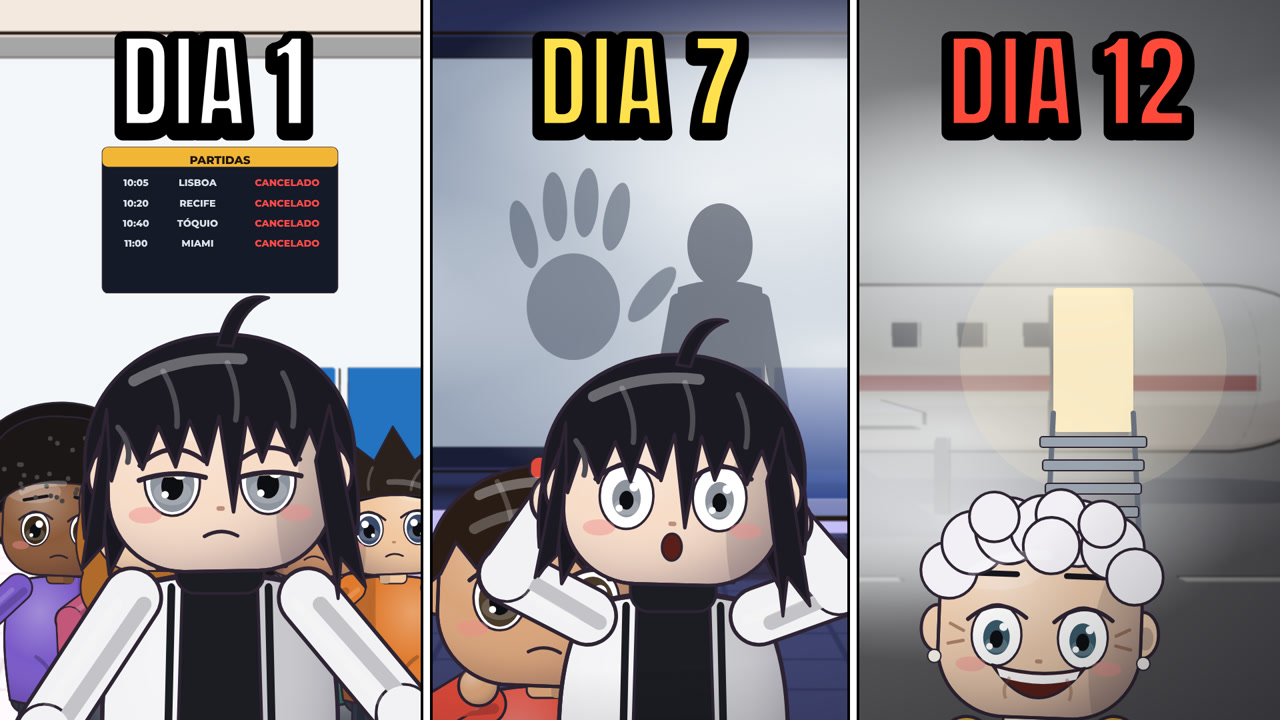
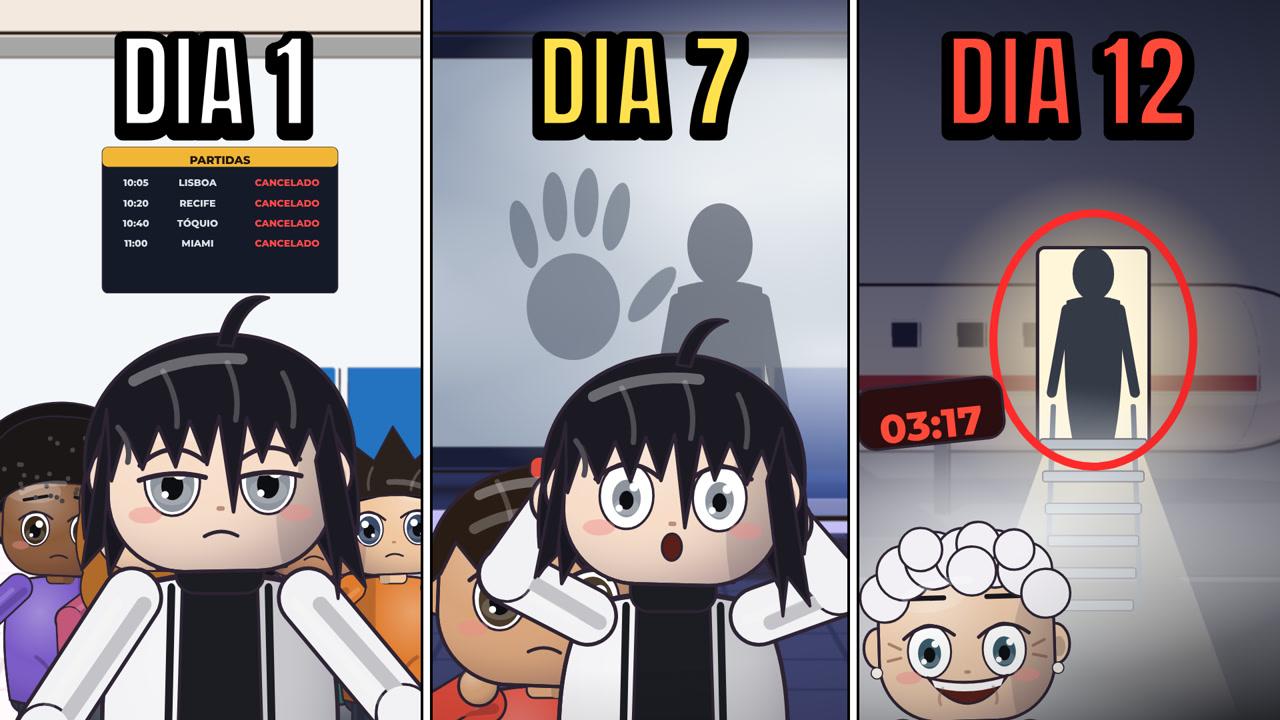
Aeroporto Parte 1: DIA 12 da capa melhorado (silhueta na porta, feixe de luz, 03:17)
Claude-Session: https://claude.ai/code/session_01LhtxzVH3qqLdbNSUbkPF4y

Changed region(s): [[0.6562, 0.0, 1.0, 1.0]]

diff --git a/longos/capas_v3/d4.js b/longos/capas_v3/d4.js
@@ -7,9 +7,18 @@ g += panel(0, 640, 'portao', p1, 'blur(1px) saturate(1.25)', 0);
 // DIA 7 — escuro, silhueta na névoa, mão no vidro
 let p2 = fog(2, 0.8, 120, 520, 5) + shadowFig(1080, 760, 0.7, 0.55) + handPrint(860, 420, 1.0, 0.95) + person(Object.assign({}, LIA, { x: 820, y: 1500, s: 1.25, expr: 'worried', hl: [-100, -250] })) + person(neoAt(25, { x: 1010, y: 1880, s: 1.75, expr: 'surprised', hl: [-110, -270], hr: [110, -270] })) + vig(0.6);
 g += panel(640, 640, 'portaoEscuro', p2, 'blur(1px) saturate(1.1)', 0);
-// DIA 12 — o avião abre a porta; a Dona Cida sorri
-let p3 = fog(3, 0.7, 300, 600, 7) + G('translate(1640,540)', R(-60, -108, 120, 216, 6, 'rgba(255,240,200,0.95)', 0) + C(0, 0, 200, 'rgba(255,240,200,0.18)', 0)) + stairs(1640, 830, 1, 210) + person(Object.assign({}, CIDA, { x: 1560, y: 1720, s: 1.5, expr: 'creepy' })) + vig(0.65);
-g += panel(1280, 640, 'pista', p3, 'blur(1.5px) brightness(0.55) saturate(0.7)', -572);
+// DIA 12 — 03:17: o avião abre a porta, alguém na porta; a Dona Cida sorri
+const ND = '<defs><linearGradient id="night" x1="0" y1="0" x2="0" y2="1"><stop offset="0" stop-color="#0B1030" stop-opacity="0.75"/><stop offset="0.6" stop-color="#1A1440" stop-opacity="0.35"/><stop offset="1" stop-color="#05060A" stop-opacity="0.6"/></linearGradient><linearGradient id="beam" x1="0" y1="0" x2="0" y2="1"><stop offset="0" stop-color="#FFF0C0" stop-opacity="0.75"/><stop offset="1" stop-color="#FFF0C0" stop-opacity="0"/></linearGradient><radialGradient id="dglow"><stop offset="0" stop-color="#FFF4D0" stop-opacity="0.9"/><stop offset="1" stop-color="#FFE0A0" stop-opacity="0"/></radialGradient></defs>';
+let p3 = ND + R(1270, -10, 660, 1100, 0, 'url(#night)', 0);
+p3 += P('M1580,640 L1700,640 L1860,1080 L1420,1080Z', 'url(#beam)', 0);
+p3 += C(1640, 520, 260, 'url(#dglow)', 0);
+p3 += G('translate(1640,520) scale(1.35)', R(-62, -110, 124, 220, 8, '#FFF6DA', 7) + shadowFig(0, 104, 0.33, 0.95));
+p3 += stairs(1640, 900, 1, 290) + fog(3, 0.55, 780, 300, 7);
+p3 += person(Object.assign({}, CIDA, { x: 1450, y: 1640, s: 1.3, expr: 'creepy' }));
+p3 += '<ellipse cx="1640" cy="510" rx="150" ry="190" fill="none" stroke="#FF2A2A" stroke-width="12"/>';
+p3 += G('translate(1395,620) rotate(-6)', R(-110, -46, 220, 92, 26, '#2A0E10', 7) + T(0, 22, '03:17', 60, '#FF4A3A'));
+p3 += vig(0.55);
+g += panel(1280, 640, 'pista', p3, 'blur(1px) brightness(0.62) saturate(0.85)', -572);
 g += sep(640) + sep(1280);
 g += BIG(320, 190, 'DIA 1', 160) + BIG(960, 190, 'DIA 7', 160, '#FFE14D') + BIG(1600, 190, 'DIA 12', 160, '#FF4A3A');
 return g;
